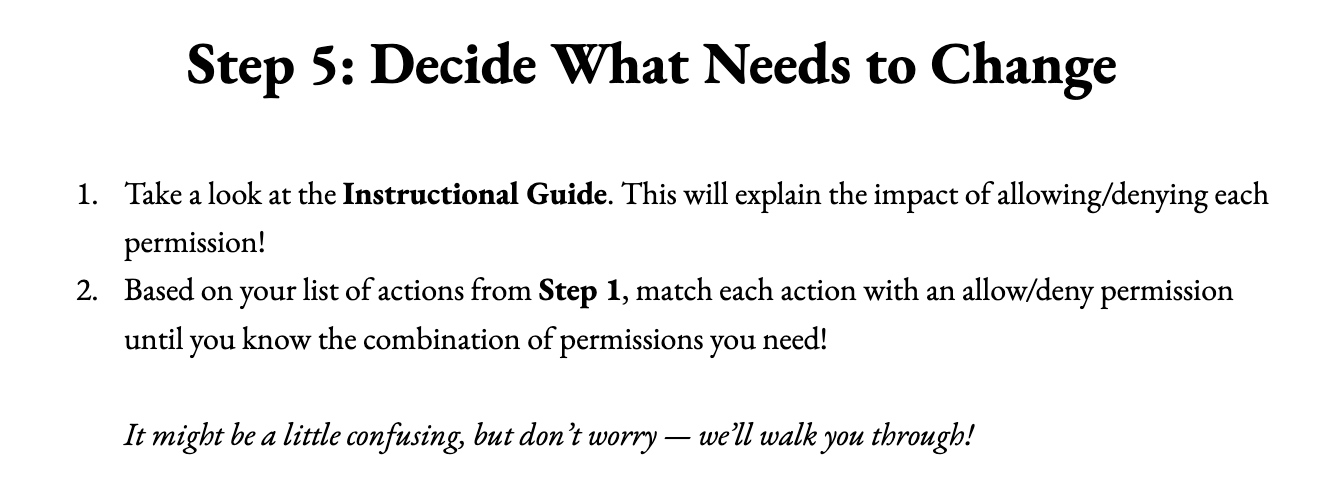
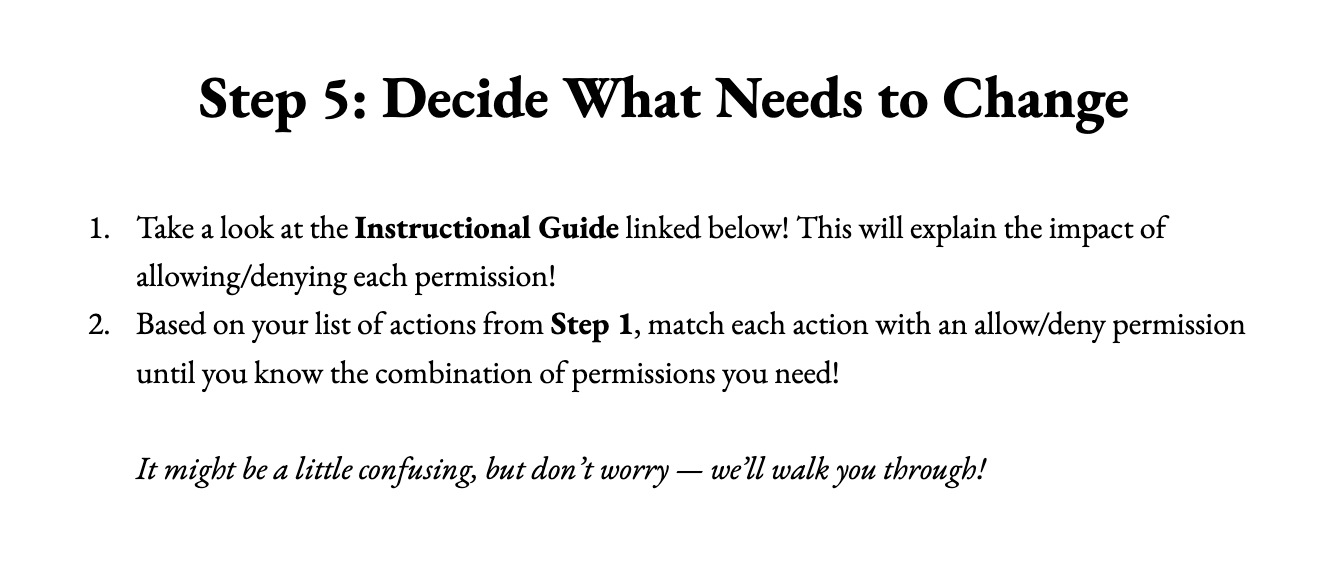
finished changes

diff --git a/added_files/instructions.html b/added_files/instructions.html
@@ -1,0 +1,49 @@
+<!DOCTYPE html>
+<html lang="en">
+<head>
+    <meta charset="UTF-8">
+    <meta http-equiv="X-UA-Compatible" content="IE=edge">
+    <meta name="viewport" content="width=device-width, initial-scale=1.0">
+    <title>Document</title>
+</head>
+<body>
+    
+    <h1><b>Instructional Guide:</b></h1>
+
+    <h2><b>What are the options for each permission?</b></h2>
+
+<b>Allow:</b> gives users access to a given  permission <br>
+<b>Deny:</b> denies access to a given permission and overrides “Allow” when both are checked <br><br>
+
+<h2><b>What are the different types of Permissions?</b></h2>
+
+<p>The permissions for each user are organized into 6 main categories as listed below.  Changes applied to the general category will affect those listed under it, so be careful!</p>
+
+<b>Read:</b> <br>	
+read attributes		
+read extended attributes
+read permissions <br><br>
+
+<b>Write:</b> <br>	
+create files/write data		
+create folders/append data <br><br>
+
+<b>Read_Execute:</b> <br>
+traverse folder/execute file
+list folder/read contents	
+<br><br>
+
+<b>Modify:</b> <br>
+write attributes		
+write extended attributes
+delete subfolders and files		
+delete<br><br>
+
+<b>Full_Control:</b> <br>
+Access to all permissions
+Specical_permissions
+change permissions		
+take ownership <br><br>
+
+</body>
+</html>

diff --git a/view.js b/view.js
@@ -98,6 +98,9 @@ $("#filestructure").before(`
 </div>
 
 <div class="float-container">
+    <br>
+    <a class="instructions" href="added_files/instructions.html" title="Prev"><b>Instructional Guide (right click to open in new tab!)</b></a>
+    <br><br>
 
     <div id="filestructure-container" class="float-child">
       <div id="filestructure"></div>

diff --git a/fileperms_style.css b/fileperms_style.css
@@ -203,3 +203,6 @@ a.slide__next {
     align-items: center;
     text-align: center;
 }
+.instructions{
+    margin-left:38%;
+}
